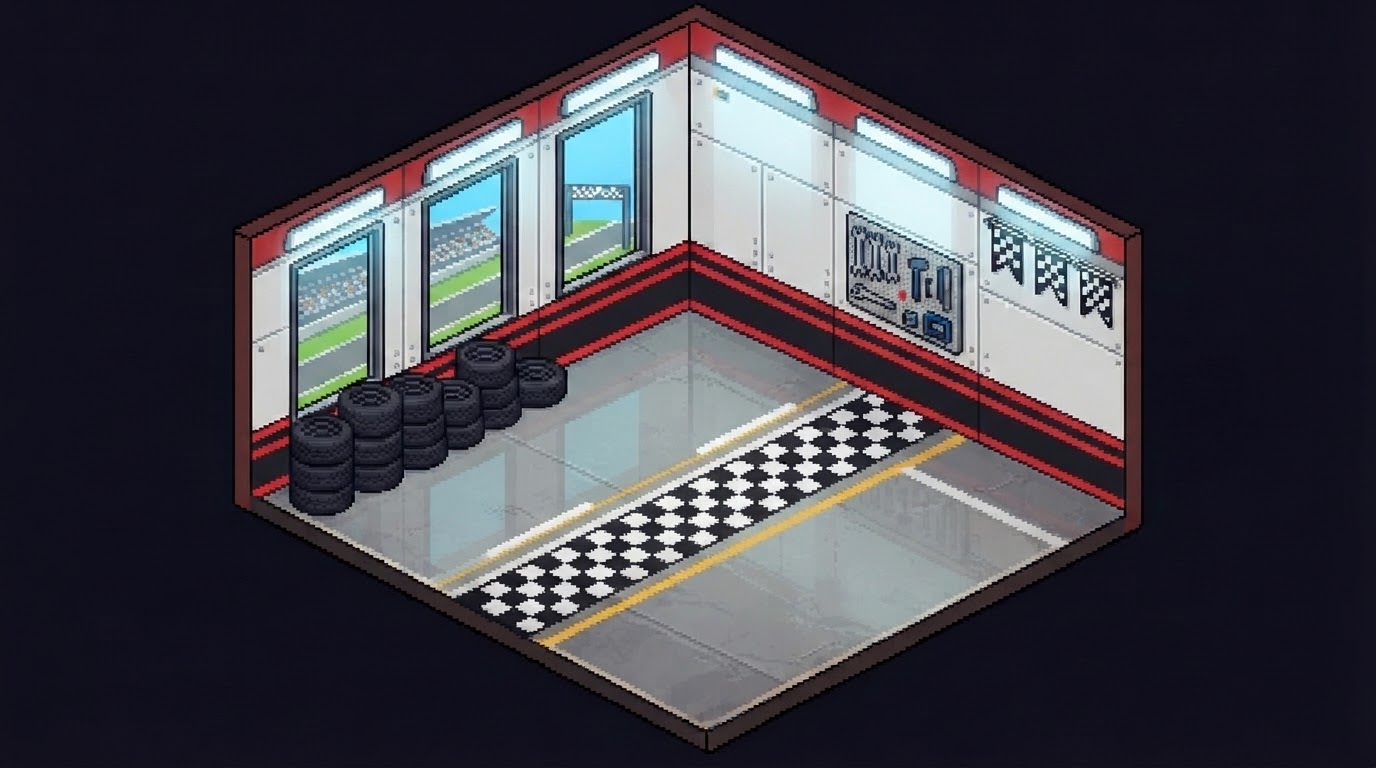
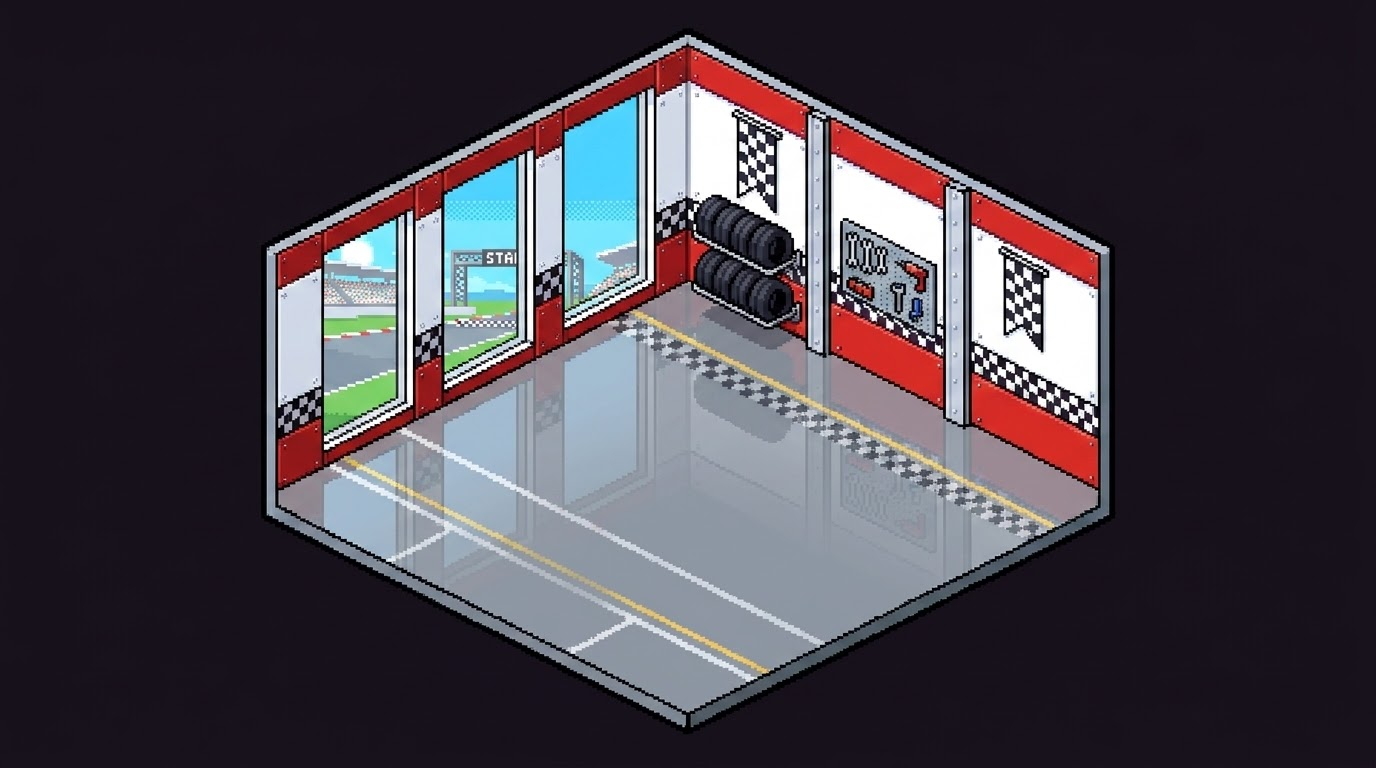
編集グリッドにセル中心ドット追加 + 海賊/サーキットを空床版に
- オブジェクトは既にセル中心に設置されている(幾何検証済み)が、交差点に見えるとの指摘に対し、各セル中心にドットを表示して「マス中心に乗っている」ことを明示(位置は不変・表示のみ)
- 海賊船・サーキットの部屋を「床に物を置かない空床版」に再生成(壁デザインは踏襲、床は模様/マーキングのみ)

diff --git a/game/main.js b/game/main.js
@@ -254,6 +254,9 @@ class Main extends Phaser.Scene {
     for(let c=0;c<GU;c++){ const uu=(c+OFF_U)/GU; if(uu>0&&uu<1) gl(uu,0,uu,1); }
     for(let r=0;r<GV;r++){ const vv=(r+OFF_V)/GV; if(vv>0&&vv<1) gl(0,vv,1,vv); }
     gl(0,0,1,0); gl(1,0,1,1); gl(1,1,0,1); gl(0,1,0,0);   // 床の外周
+    // セル中心ドット(=オブジェクトの設置点)。各マスの中心が一目で分かる
+    this.editGrid.fillStyle(0x7fe6ff,0.6);
+    for(let c=0;c<GU;c++) for(let r=0;r<GV;r++){ const p=cellXY(c,r); this.editGrid.fillCircle(p.x,p.y,2.2); }
     this.trash=this.add.container(72,H-52,[ this.add.rectangle(0,0,124,72,0x3a1418,0.85).setStrokeStyle(2,0xe05a4e), this.add.text(0,0,'🗑 ここへ撤去',{fontSize:'13px',color:'#ffd0c8'}).setOrigin(0.5) ]).setDepth(8600).setVisible(false);
     this._trashRect=new Phaser.Geom.Rectangle(10,H-88,124,74);
     // 空き床クリックで、パレットで選択中のアイテムを設置
